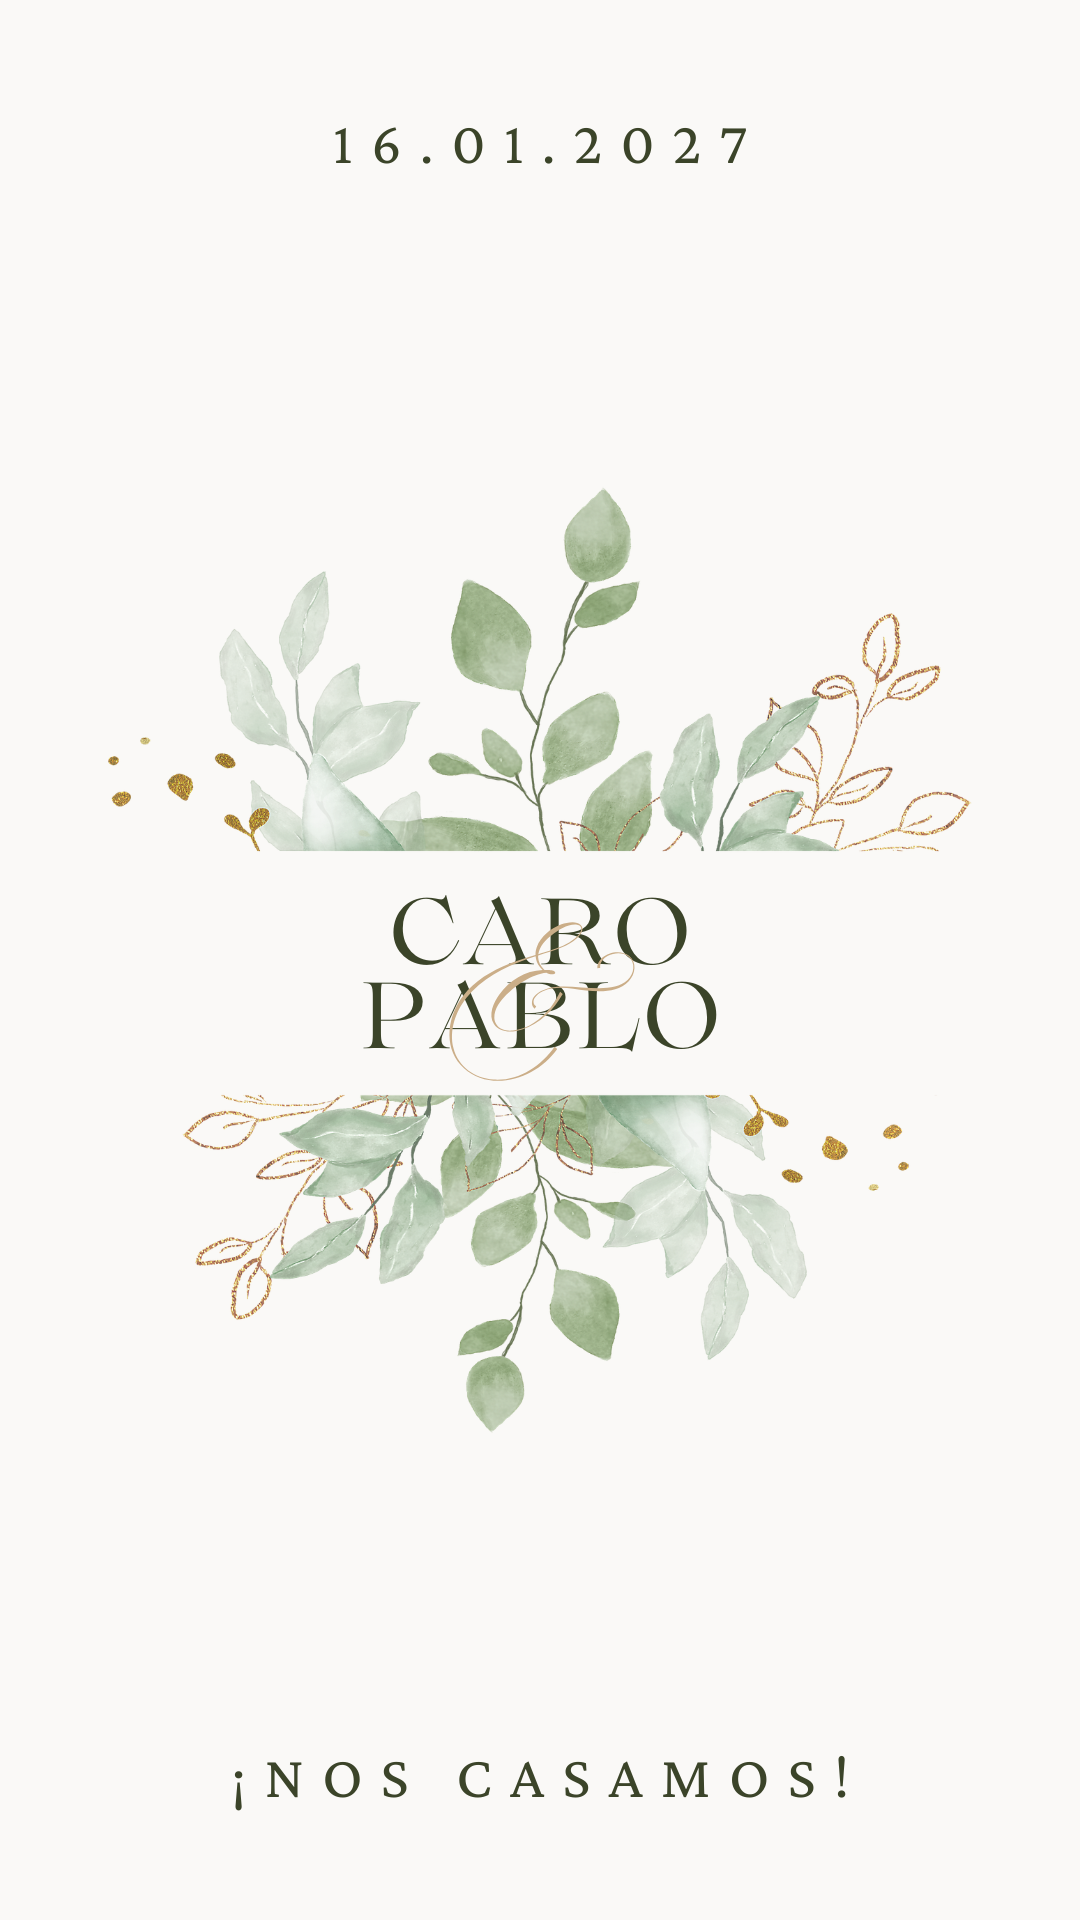
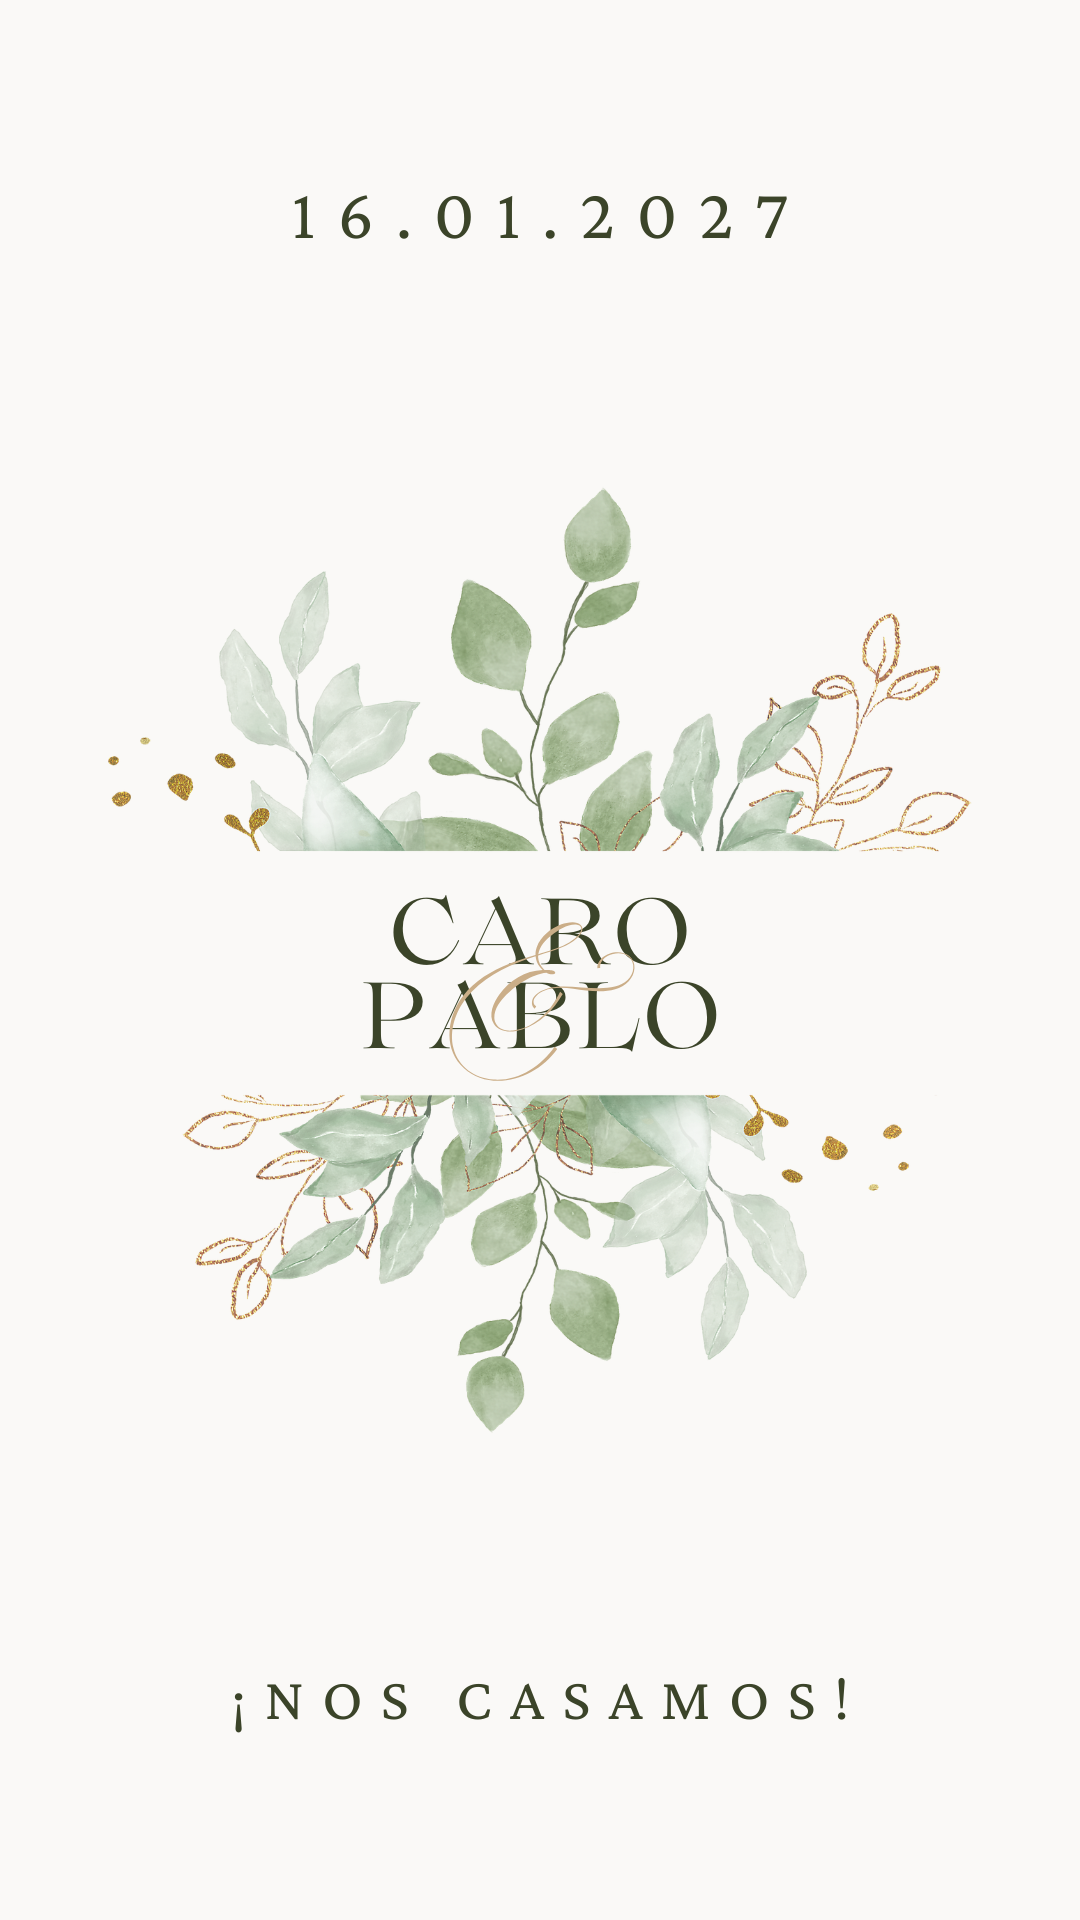
A
A

diff --git a/index.html b/index.html
@@ -80,10 +80,10 @@
         </div>
     </div>  
     <div class="galeria1">
-        <img data-aos="fade-up"   class="f1" src="./novios/1.png" alt="FOTO">
-        <img data-aos="fade-up"   class="f2" src="./novios/1.png" alt="FOTO">
-        <img data-aos="fade-up"   class="f2" src="./novios/1.png" alt="FOTO">
-        <img data-aos="fade-up"   class="f2" src="./novios/1.png" alt="FOTO">
+        <img data-aos="fade-up"   class="f1" src="./novios/3.png" alt="FOTO">
+        <img data-aos="fade-up"   class="f2" src="./novios/3.png" alt="FOTO">
+        <img data-aos="fade-up"   class="f2" src="./novios/3.png" alt="FOTO">
+        <img data-aos="fade-up"   class="f2" src="./novios/3.png" alt="FOTO">
     </div> 
    
     <div class="ubicacion">
@@ -99,16 +99,16 @@
             <img   data-aos="fade-up"  class="icon"   src="./imgs/copas.png" alt="fiesta">
             <h2  data-aos="fade-up"  >FIESTA</h2>
             <br>
-            <p  data-aos="fade-up"  ><strong>18:30 Hs -  Safariland - Circuito Chico.
+            <p  data-aos="fade-up"  ><strong>18:00 Hs -  Safariland - Circuito Chico.
                 </strong> </p>
             <a  data-aos="fade-up" target="_blank" class="boton" href="https://www.google.com/maps/dir//Safariland,+R%C3%ADo+Negro/@-41.0746389,-71.5140426,17z/data=!4m17!1m7!3m6!1s0x961a75b1b7a94cc7:0xda7ff78432ed0479!2sSafariland!8m2!3d-41.0746389!4d-71.5114677!16s%2Fg%2F1thvzgqg!4m8!1m0!1m5!1m1!1s0x961a75b1b7a94cc7:0xda7ff78432ed0479!2m2!1d-71.5114677!2d-41.0746389!3e0?entry=ttu&g_ep=EgoyMDI2MDcyOS4wIKXMDSoASAFQAw%3D%3D">CÓMO LLEGAR</a>
             </div>    
     </div>   
-   <div class="galeria2">
+   <div class="galeria">
         <img data-aos="fade-up"   class="f1" src="./novios/2.png" alt="FOTO">
-        <img data-aos="fade-up"   class="f1" src="./novios/3.png" alt="FOTO">
         <img data-aos="fade-up"   class="f4" src="./novios/2.png" alt="FOTO">
-        <img data-aos="fade-up"   class="f4" src="./novios/3.png" alt="FOTO">
+        <img data-aos="fade-up"   class="f4" src="./novios/2.png" alt="FOTO">
+        <img data-aos="fade-up"   class="f4" src="./novios/2.png" alt="FOTO">
     </div> 
     <div class="timeline">
     
@@ -156,10 +156,9 @@
     <div   class="dresscode">
         <img  data-aos="fade-up"  class="icon"  src="./imgs/dresscode.png" alt="fiesta">
         <h2  data-aos="fade-up"  >DRESS CODE - ELEGANTE SPORT</h2>
-        <p  data-aos="fade-up" >Recordá que el blanco está reservado para la novia.</p>
     </div>
 
-    
+          <!--
 
       <div class="ubicacion" >
         <br>
@@ -170,7 +169,7 @@
                 Compartí las fotos y videos de nuestra boda en el siguiente álbum.</p>
             <a  data-aos="fade-up" target="_blank"  class="boton" href="#">RECUERDOS</a>
         </div>
-        <!--
+  
         <div class="ubicacion-bloque">
             <img  data-aos="fade-up"  class="icon"  src="./imgs/fiesta.png" alt="playlist">
             <h2  data-aos="fade-up" >PLAYLIST</h2>
@@ -179,15 +178,15 @@
 </p>
             <a  data-aos="fade-up" target="_blank" class="boton" href="https://docs.google.com/forms/d/e/1FAIpQLSe6h5aBpypu99CJ-xuoyUay3SyYX2irxxC_-un1tz8Sg-EKxA/viewform?usp=dialog">  PLAYLIST  </a>
         </div>
-        -->
+       
         <br>
     </div>
-   
+   -->
    <div class="galeria1">
-        <img data-aos="fade-up"   class="f1" src="./novios/4.png" alt="FOTO">
-        <img data-aos="fade-up"   class="f2" src="./novios/4.png" alt="FOTO">
-        <img data-aos="fade-up"   class="f2" src="./novios/4.png" alt="FOTO">
-        <img data-aos="fade-up"   class="f2" src="./novios/4.png" alt="FOTO">
+        <img data-aos="fade-up"   class="f1" src="./novios/1.png" alt="FOTO">
+        <img data-aos="fade-up"   class="f2" src="./novios/1.png" alt="FOTO">
+        <img data-aos="fade-up"   class="f2" src="./novios/1.png" alt="FOTO">
+        <img data-aos="fade-up"   class="f2" src="./novios/1.png" alt="FOTO">
     </div> 
     <div class="caja">
         <div  class="ubicacion-bloque dos" >
